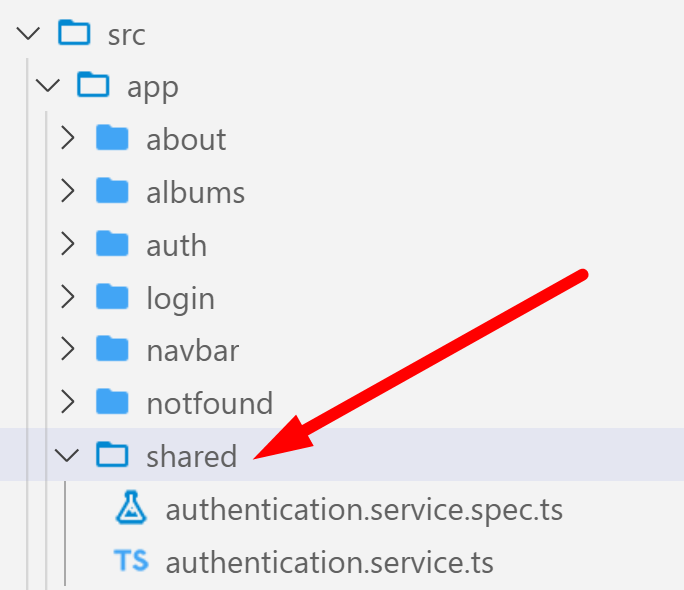
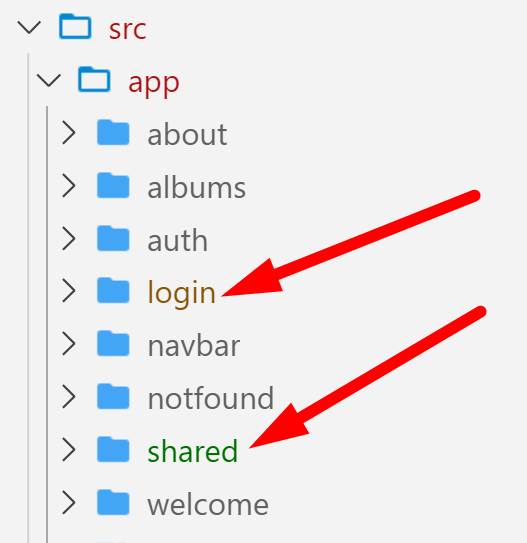
fix content of html and dirs

Changed region(s): [[0.0304, 0.0, 0.9412, 1.0]]

diff --git a/Ch10-Forms/2reactive/login/login.component.html b/Ch10-Forms/2reactive/login/login.component.html
@@ -1,60 +1,88 @@
-import { Component, OnInit } from '@angular/core';
-import { AuthenticationService } from '../shared/authentication.service';
-import { Router } from '@angular/router';
-import { FormBuilder, FormGroup, Validators } from '@angular/forms';
-import { ValidationService } from '../shared/validation.service';
-import { IUserLogin } from '../shared/interfaces';
+<h1 class="mx-auto pt-3 w-50 text-center">You must login to continue</h1>
+<!-- <div class="text-center">
+  <button (click)="login()">Fake Login Process</button>
+</div> -->
 
-@Component({
-  selector: 'app-login',
-  templateUrl: './login.component.html',
-  styleUrls: ['./login.component.css']
-})
-export class LoginComponent {
-
-  constructor(private formBuilder: FormBuilder,
-    private authService: AuthenticationService,
-    private router: Router) { }
-
-
-  loginForm: FormGroup;
-  errorMessage: string;
-
-  ngOnInit() {
-    this.buildForm();
-  }
-
-  buildForm() {
-    this.loginForm = this.formBuilder.group({
-      email: ["", [Validators.required, ValidationService.emailValidator]],
-      password: ["", [Validators.required, ValidationService.passwordValidator]]
-    });
-  }
-
-   submit({ value, valid }: { value: IUserLogin; valid: boolean }) {
-
-    console.log(this.loginForm)
-    console.log(value)
-    
-    if(this.authService.login(value)) {
-      console.log('back from successful login')
-      if (!this.authService.redirectUrl) {
-        this.authService.redirectUrl = '/welcome';
-      }
-      this.router.navigateByUrl(this.authService.redirectUrl);
-  
-    }
-    else {
-      console.log('back from unsuccessful login')
-      alert('Invalid login try again')
-    }
-  }
-
-  logout() {
-    this.authService.logout();
-    this.authService.redirectUrl = '/login';
-  }
-
-
-
-}
+<div class="view">
+  <div class="container">
+    <header>
+      <h3><span class="glyphicon glyphicon-lock"></span> Login</h3>
+    </header>
+    <br />
+    <form
+      [formGroup]="loginForm"
+      (ngSubmit)="submit(loginForm)"
+      class="login-form"
+      novalidate
+    >
+      <div class="login">
+        <div class="row">
+          <div class="col-md-2">
+            Email:
+          </div>
+          <div class="col-md-10">
+            <input
+              type="email"
+              name="email"
+              class="form-control"
+              formControlName="email"
+            />
+            <div
+              class="alert alert-danger"
+              [hidden]="
+                loginForm.controls.email.untouched ||
+                loginForm.controls.email.valid
+              "
+            >
+              A valid email address is required
+            </div>
+          </div>
+        </div>
+        <br />
+        <div class="row">
+          <div class="col-md-2">
+            Password:
+          </div>
+          <div class="col-md-10">
+            <input
+              type="password"
+              name="password"
+              class="form-control"
+              formControlName="password"
+            />
+            <div
+              class="alert alert-danger"
+              [hidden]="
+                loginForm.controls.password.untouched ||
+                loginForm.controls.password.valid
+              "
+            >
+              Password is required (6 or more characters with at least one
+              number)
+            </div>
+          </div>
+        </div>
+        <br />
+        <div class="row">
+          <div class="col-md-12">
+            <button
+              type="submit"
+              class="btn btn-success"
+              [disabled]="!loginForm.valid"
+            >
+              Login
+            </button>
+          </div>
+        </div>
+        <br />
+        <div class="statusRow">
+          <br />
+          <div class="label label-important" *ngIf="errorMessage">
+            <span class="glyphicon glyphicon-thumbs-down icon-white"></span
+            >&nbsp;&nbsp;Error: {{ errorMessage }}
+          </div>
+        </div>
+      </div>
+    </form>
+  </div>
+</div>

diff --git a/Ch10-Forms/2reactive/login/login.component.ts b/Ch10-Forms/2reactive/login/login.component.ts
@@ -1,25 +1,24 @@
-import { Component, OnInit } from "@angular/core";
-import { Router } from "@angular/router";
-import { FormBuilder, FormGroup, Validators } from "@angular/forms";
-
-import { AuthService } from "../services/auth.service";
-import { ValidationService } from "../services/validation.service";
-import { IUserLogin } from "../shared/interfaces";
+import { Component, OnInit } from '@angular/core';
+import { AuthenticationService } from '../shared/authentication.service';
+import { Router } from '@angular/router';
+import { FormBuilder, FormGroup, Validators } from '@angular/forms';
+import { ValidationService } from '../shared/validation.service';
+import { IUserLogin } from '../shared/interfaces';
 
 @Component({
-  selector: "app-login",
-  templateUrl: "./login.component.html",
-  styleUrls: ["./login.component.css"]
+  selector: 'app-login',
+  templateUrl: './login.component.html',
+  styleUrls: ['./login.component.css']
 })
-export class LoginComponent implements OnInit {
+export class LoginComponent {
+
+  constructor(private formBuilder: FormBuilder,
+    private authService: AuthenticationService,
+    private router: Router) { }
+
+
   loginForm: FormGroup;
   errorMessage: string;
-
-  constructor(
-    private formBuilder: FormBuilder,
-    private router: Router,
-    private authService: AuthService
-  ) {}
 
   ngOnInit() {
     this.buildForm();
@@ -32,25 +31,30 @@ export class LoginComponent implements OnInit {
     });
   }
 
-  submit({ value, valid }: { value: IUserLogin; valid: boolean }) {
-    this.authService.login(value).subscribe(
-      (status: boolean) => {
-        if (status) {
-          alert("Logged in");
-          if (this.authService.redirectUrl) {
-            const redirectUrl = this.authService.redirectUrl;
-            this.authService.redirectUrl = "";
-            this.router.navigate([redirectUrl]);
-          } else {
-            this.router.navigate(["/add-album"]);
-          }
-        } else {
-          const loginError = "Unable to login";
-          this.errorMessage = loginError;
-          console.log(loginError);
-        }
-      },
-      (err: any) => console.log(err)
-    );
+   submit({ value, valid }: { value: IUserLogin; valid: boolean }) {
+
+    console.log(this.loginForm)
+    console.log(value)
+    
+    if(this.authService.login(value)) {
+      console.log('back from successful login')
+      if (!this.authService.redirectUrl) {
+        this.authService.redirectUrl = '/welcome';
+      }
+      this.router.navigateByUrl(this.authService.redirectUrl);
+  
+    }
+    else {
+      console.log('back from unsuccessful login')
+      alert('Invalid login try again')
+    }
   }
+
+  logout() {
+    this.authService.logout();
+    this.authService.redirectUrl = '/login';
+  }
+
+
+
 }

diff --git a/Ch10-Forms/2reactive/shared/authentication.service.ts b/Ch10-Forms/2reactive/shared/authentication.service.ts
@@ -1,0 +1,49 @@
+import { Injectable, EventEmitter, Output } from '@angular/core';
+import { Observable, of } from 'rxjs';
+import { Router } from '@angular/router';
+
+@Injectable({ providedIn: 'root' })
+export class AuthenticationService {
+
+  constructor(private router: Router){}
+
+  public redirectUrl = '';
+  isLoggedIn = false;
+  @Output() getLoggedInStatus: EventEmitter<boolean> = new EventEmitter();
+
+  ngOnInit(): void {
+    // Called after the constructor, initializing input properties, and the first call to ngOnChanges.
+    // Add 'implements OnInit' to the class.
+    this.isLoggedIn = (localStorage.getItem('loggedin')) ? true : false;
+  }
+
+  login({email, password}): boolean {
+
+    
+      if (email === 'test@test.com' && password === 'abcd1234') {
+        console.log('valid login');
+          this.getLoggedInStatus.emit(true);
+          this.isLoggedIn = true;
+          localStorage.setItem('loggedin', 'true');
+          return true;
+      } else {
+        console.log('invalid login');
+          this.isLoggedIn = false;
+          this.getLoggedInStatus.emit(false);
+          return false;
+      }
+  }
+
+  logout(): void {
+      this.getLoggedInStatus.emit(false);
+      this.isLoggedIn = false;
+      console.log('logging out user');
+      localStorage.removeItem('loggedin');
+      this.router.navigate(['./login']);
+  }
+
+  isUserLoggedIn() {
+    return this.isLoggedIn;
+  }
+
+}

diff --git a/Ch10-Forms/2reactive/shared/authentication.service.spec.ts b/Ch10-Forms/2reactive/shared/authentication.service.spec.ts
@@ -1,0 +1,12 @@
+import { TestBed } from '@angular/core/testing';
+
+import { AuthenticationService } from './authentication.service';
+
+describe('AuthenticationService', () => {
+  beforeEach(() => TestBed.configureTestingModule({}));
+
+  it('should be created', () => {
+    const service: AuthenticationService = TestBed.get(AuthenticationService);
+    expect(service).toBeTruthy();
+  });
+});

diff --git a/Ch10-Forms/2reactive/README.md b/Ch10-Forms/2reactive/README.md
@@ -9,28 +9,27 @@
 
 1. Continue working in your **my-angular-albums** project. If you haven't completed previous exercises, you can copy the src directory from the solution in the last exercise over yours.
 
-1. In your project navigate to your app/shared folder and delete it.
+1. In your project navigate to your app/shared folder and app/login folders and delete them.
+
    ![](../screenshots/2-delete-shared-folder.png)
 
+ 
+2. Make sure the angular100-labs project is open in VS Code and navigate to the same folder as this README.md. Copy the shared and login folders from here into your project **app** directory.
 
-2. Make sure the angular100-labs project is open in VS Code and navigate to the same folder as this README.md. Copy the shared folder from here into your project **app** directory.
-   
+   ![](../screenshots/2-copy-shared-folder.png)
+
+
 3. In **app.module.ts** in the @NgModule decorator of core, import **ReactiveFormsModule** to be able to create a reactive form in the LoginComponent. Make sure the import of the module as an ES6 import is at the top of the file.
 
-4. Copy the contents of the login directory over the contents in your login directory.
+   ![](../screenshots/2-import-reactive.png)
+
+4. Copy the contents of the login directory in this README file folder over the contents in your login directory.
    
-5. View the files in the **/login** folder in the VS Code editor. 
+5. View the new versions of files in the **/login** folder in the VS Code editor. 
     1. In the **login.component.html** notice the use of formGroup and how the error messages, and submit are worked with conditionally.
     2. In the **login.component.ts** file, notice the work with FormBuilder, and setting up of email and password along with Validators. Validators.required is built in, and ValidationService.emailValidator and ValidationService.passwordValidator are custom. 
 
-6. In loginComponent, note:
-   * Add DI for private formBuilder: FormBuilder
-   * 
-
-
-7. Copy file from the **/shared** folder from the same folder of this README.me into your project folder **/app/shared**.   This defines an interface for login information.
-
-8.  With these changes in place your code should now work. Clicking on login should bring up the login page. Supplying the username of user and the password of root should log you in. 
+6.  With these changes in place your code should now work. Clicking on login should bring up the login page. Supplying the username of user and the password of root should log you in. 
 
 ## Bonus
 1.  Use Reactive form to add a new album. 
